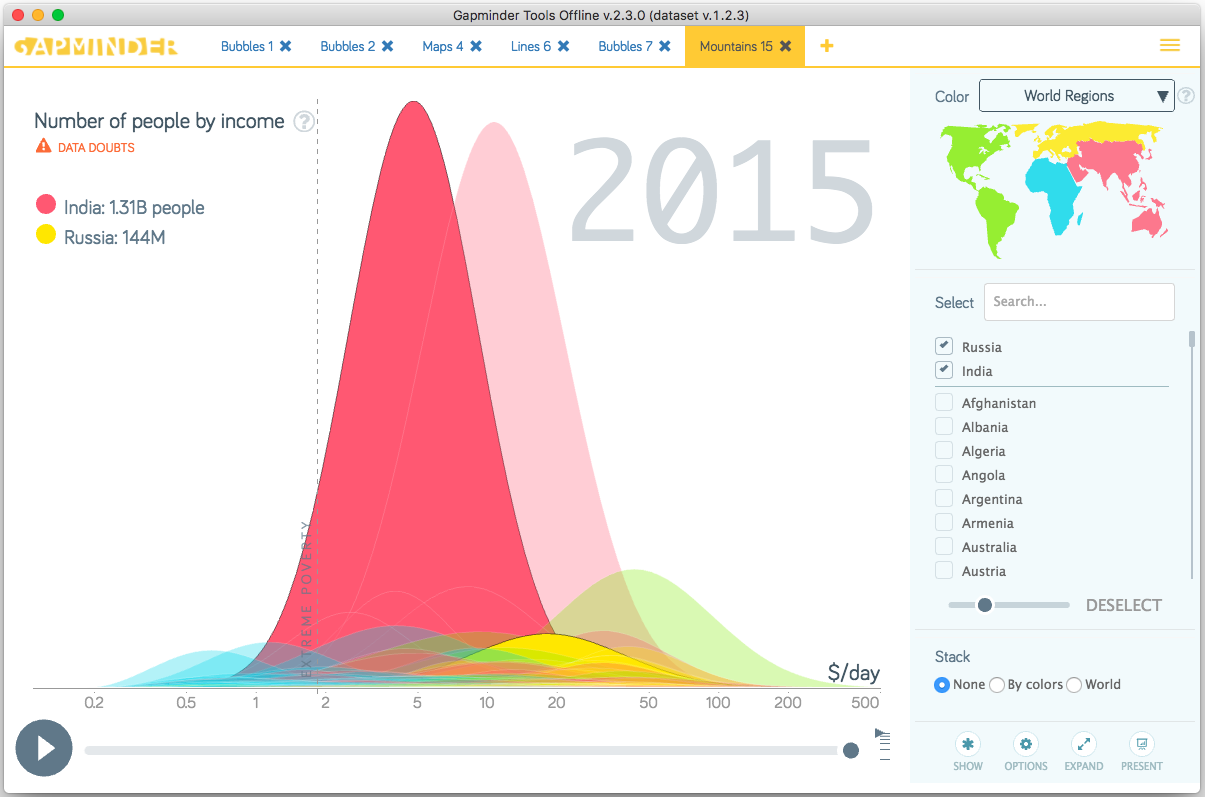
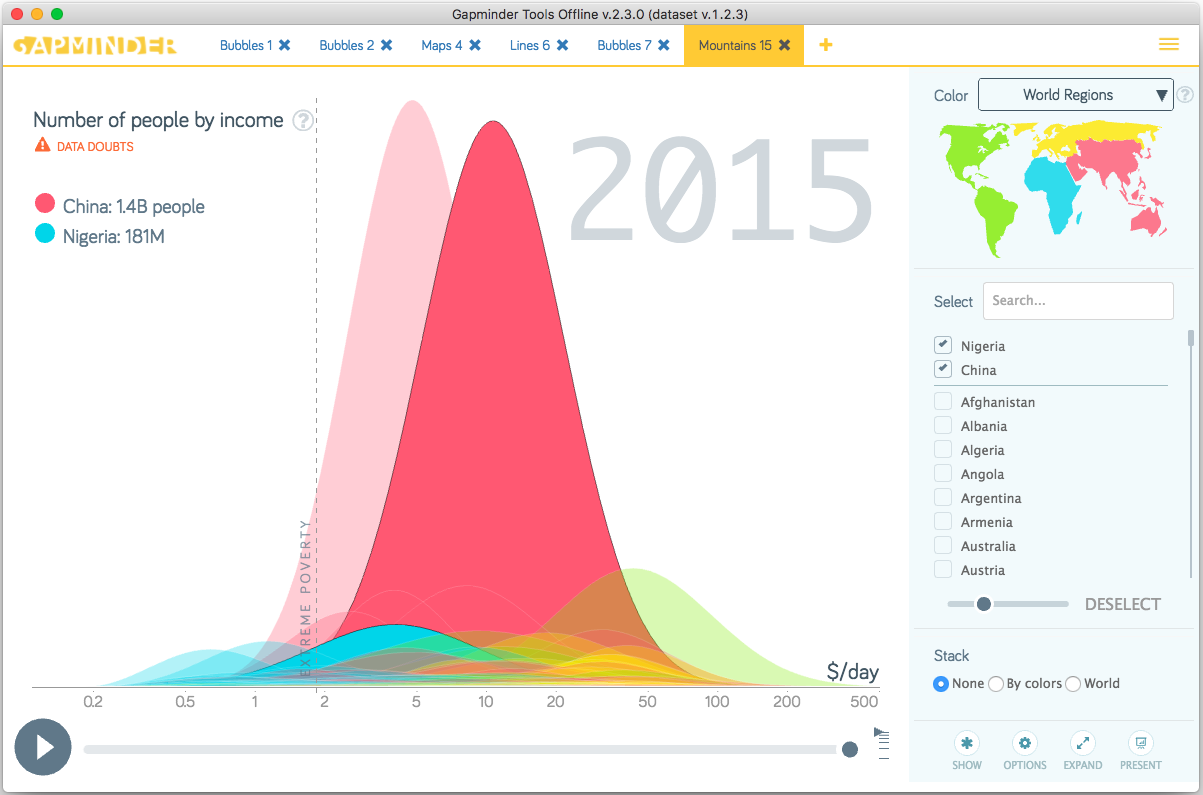
Color and transparency for mountains

diff --git a/04_visual_design.tex b/04_visual_design.tex
@@ -312,17 +312,25 @@ The non-stacked version has overlapping problems:
 countries with similar income's distributions result in overlapping areas with a similar shape.
 The problem is only partially solved by allowing the user to select only some countries (using the menu in the right panel).
 \cref{fig:mountains-non-stacked} shows an example of non-stacked areas in Gapminder:
-we have selected India and Russia to highlight them, but there are still clear overlapping problems, exactly for Russia.
+we have selected China and Nigeria to highlight them, but there are still clear overlapping problems, especially for Nigeria.
 
 \paragraph{Size}
 
 \paragraph{Color}
+The encoding of color is the same of the one for ``bubbles'' charts discussed in \cref{subsubsec:bubbles}.
+This encoding has a problem in the non-stacked areas version:
+when some countries are selected, the others are partially hidden by changing their level of transparency.
+Overlapping areas with different colors and a non-zero level of transparency create new colors which does not belong to the color mapping.
+This problem is evident with categorical color mapping:
+in \cref{fig:mountains-non-stacked}, the overlapping of red area that represents China with the big green area on the right generates a big orange area.
 
 \paragraph{Text Labels}
 
 \paragraph{Animation}
 
 \paragraph{Transparency}
+The encoding of color is the same as the ``bubbles'' charts discussed in \cref{subsubsec:bubbles}.
+We have discussed the problems of combining transparency and color in the color paragraph.
 
 
 \subsubsection{Rankings}
